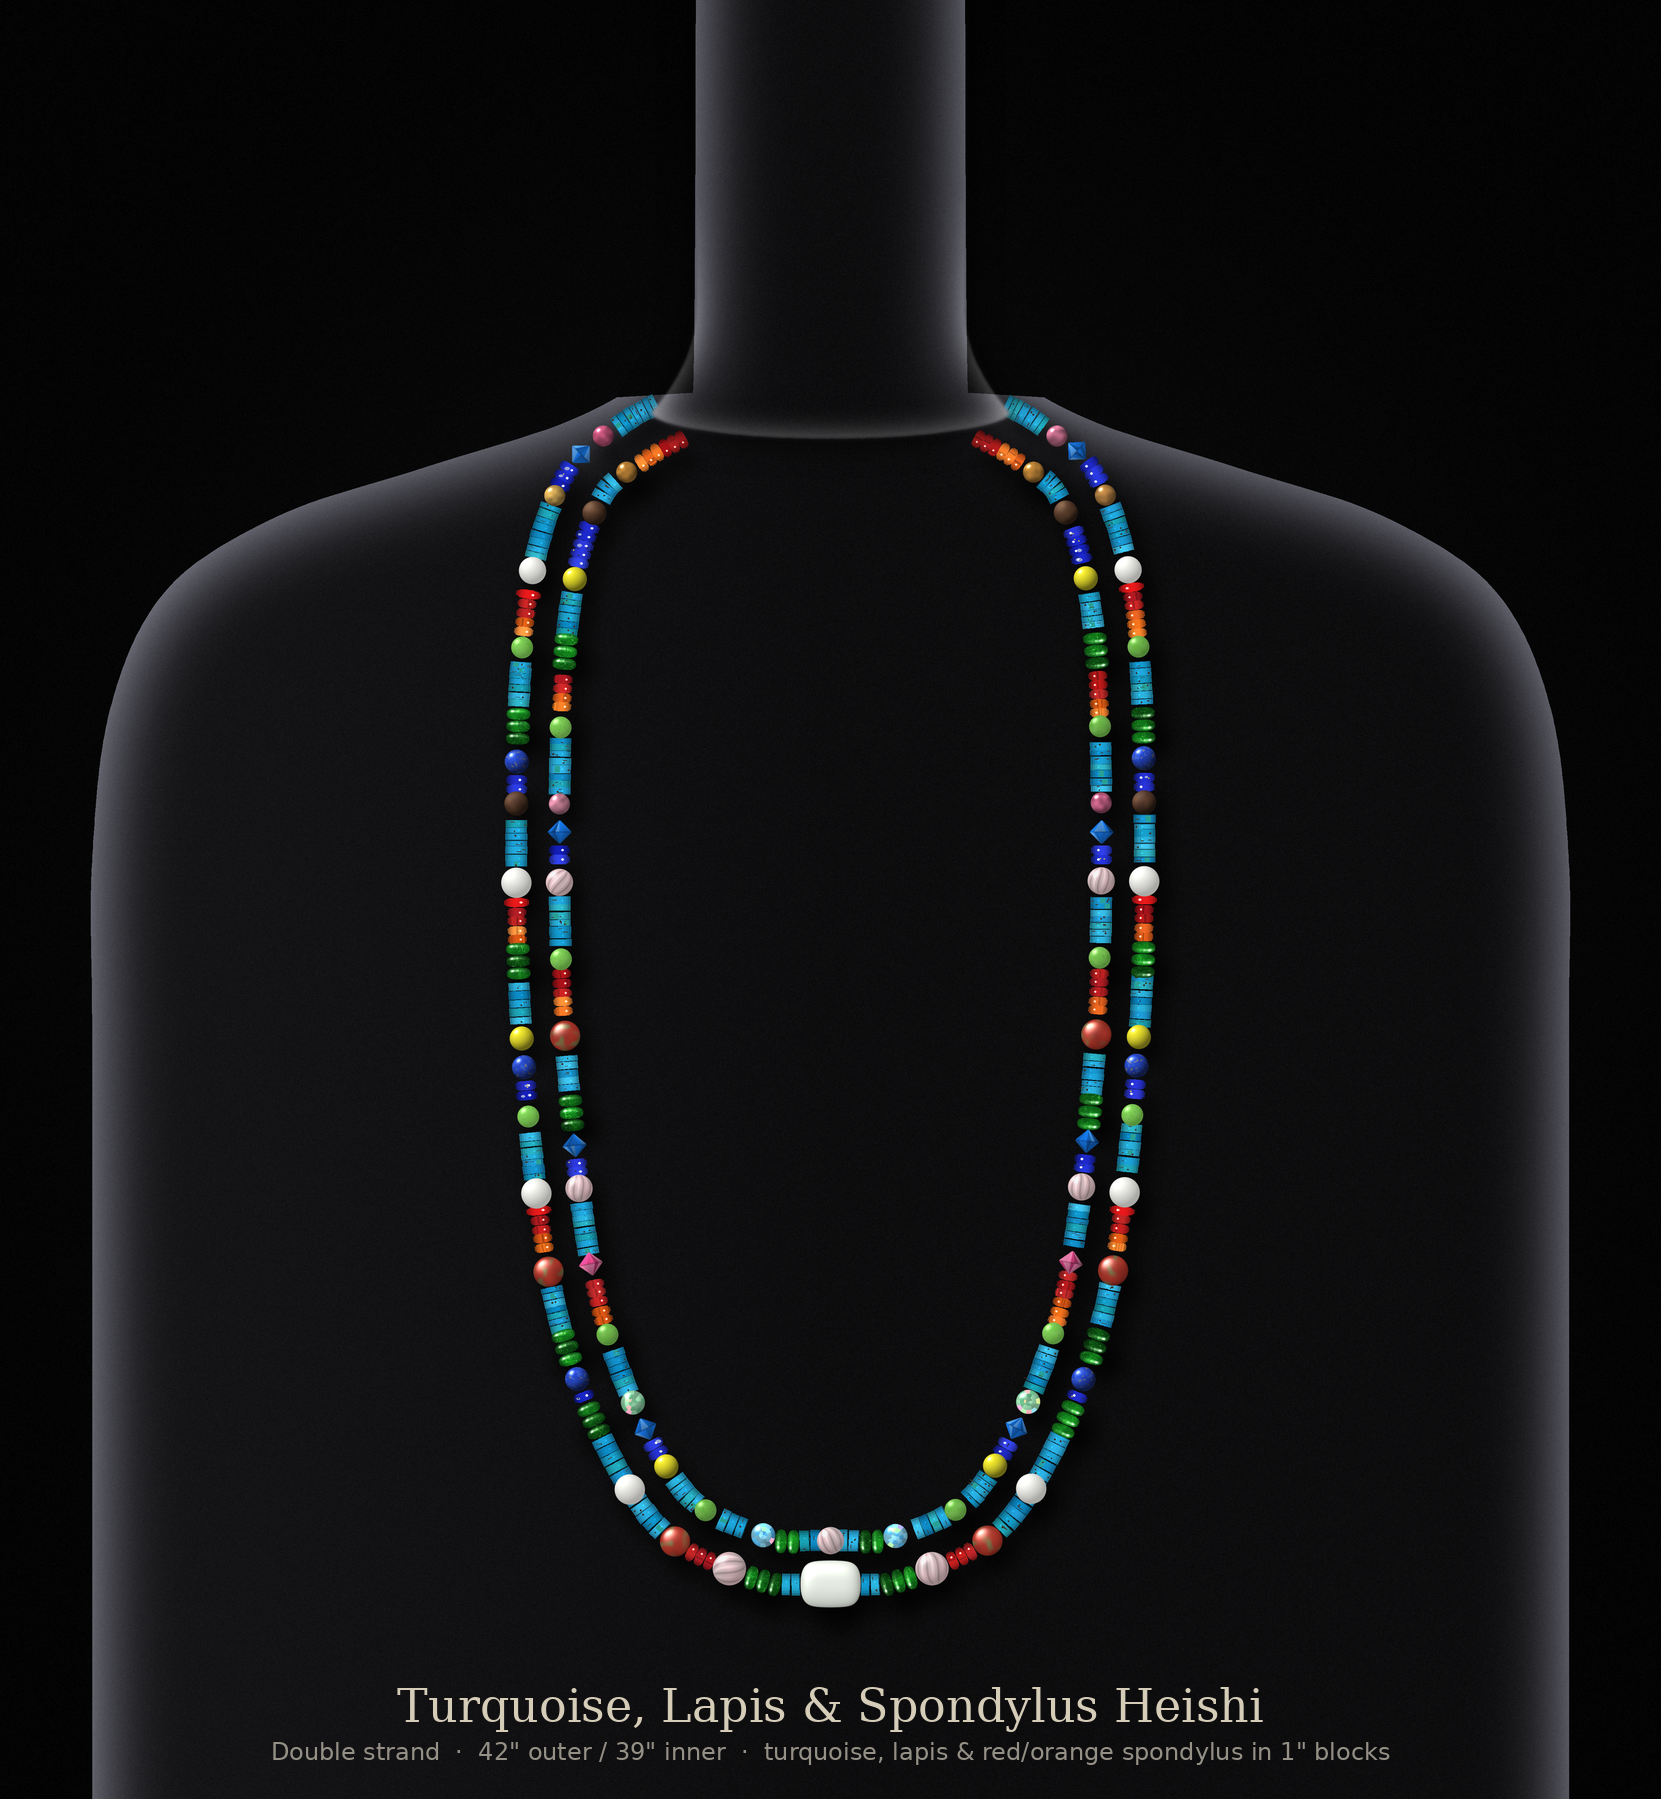
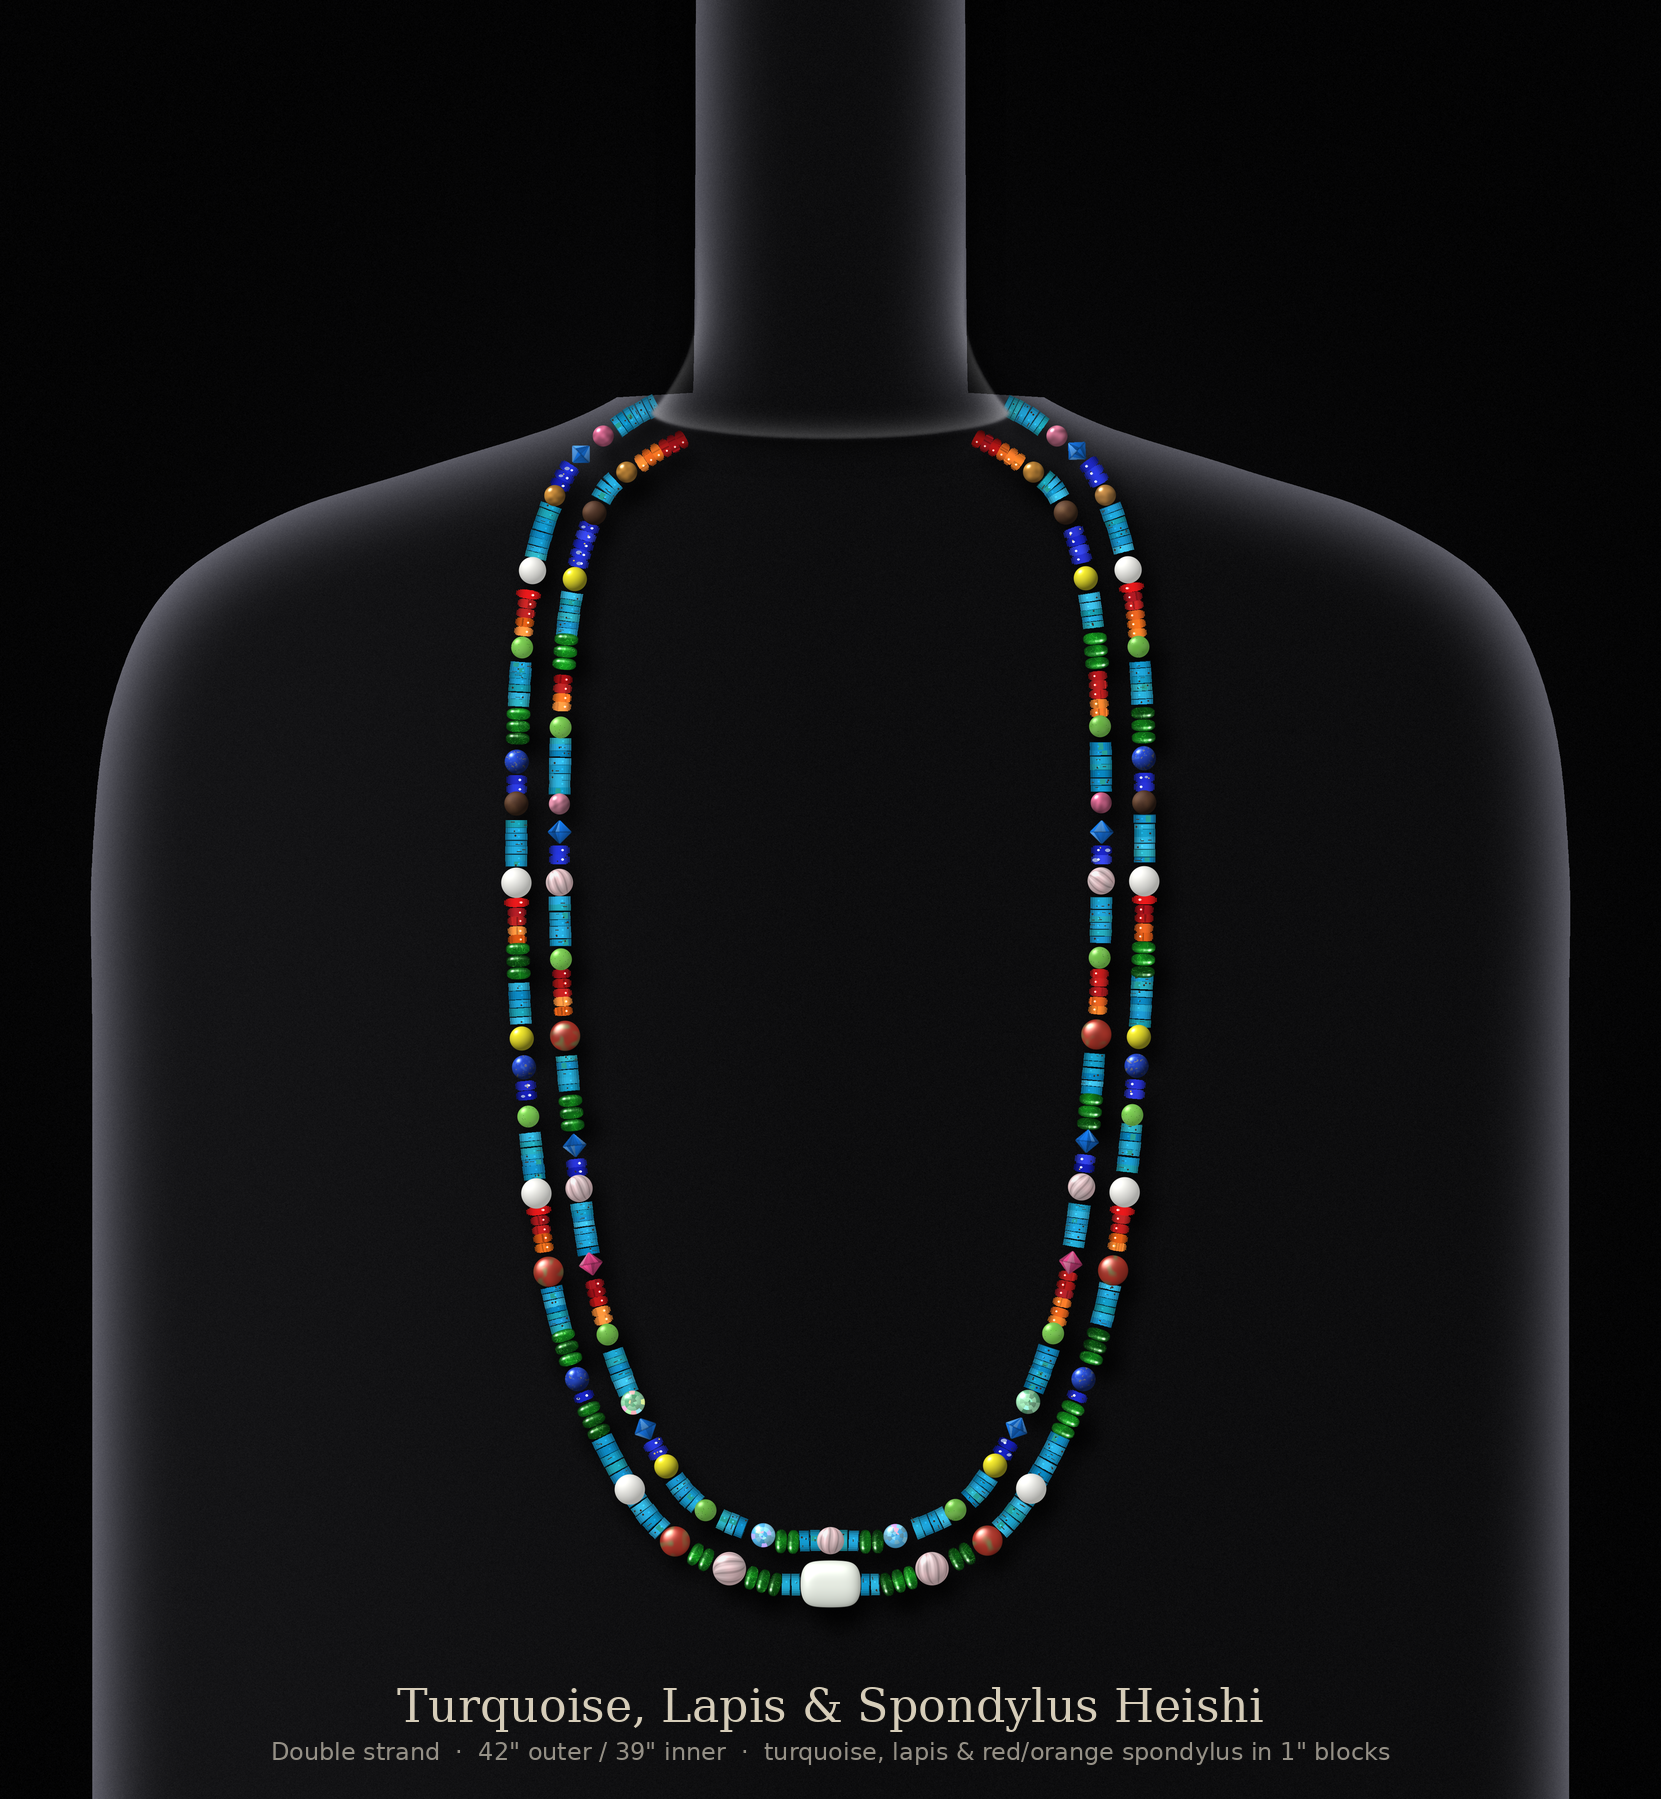
Version 2 trial: chrome diopside instead of red discs between rose quartz and jasper
Claude-Session: https://claude.ai/code/session_014be1vF4Rdf8sv9Si75Gudv

diff --git a/necklace/render_necklace.py b/necklace/render_necklace.py
@@ -910,6 +910,17 @@ if V2 and not V3:
         _j = min(int(np.searchsorted(s_out, _p)), len(outer) - 1)
         beads_out.append(((outer[_j][0], outer[_j][1], tang[_j][0], tang[_j][1], _j, _p), 0))
         SPLIT[(0, round(_p, 4))] = 2
+        # trial: the red discs here become 8 x 4 mm chrome diopside rondelles, as many as fit, centred
+        _e1 = _na - _d * 5.0                                   # jasper edge facing the rose quartz
+        _e2 = _r[4] + _d * tsize(_r) / 2                       # rose quartz edge facing the jasper
+        beads_out = [b for b in beads_out if not (min(_e1, _e2) - 0.2 < b[0][5] < max(_e1, _e2) + 0.2)]
+        _gap = abs(_e1 - _e2)
+        _nd = max(1, int((_gap + 0.4) // PER_L_))
+        _c0 = (_e1 + _e2) / 2
+        for _q in range(_nd):
+            _p = _c0 + (_q - (_nd - 1) / 2) * PER_L_
+            _j = min(int(np.searchsorted(s_out, _p)), len(outer) - 1)
+            tourm[0].append((outer[_j][0], outer[_j][1], tang[_j][0], tang[_j][1], _p, "peridot"))
 
 allbeads = beads_out + beads_in
 for (x, y, tx, ty, i, _p), strand in allbeads:
